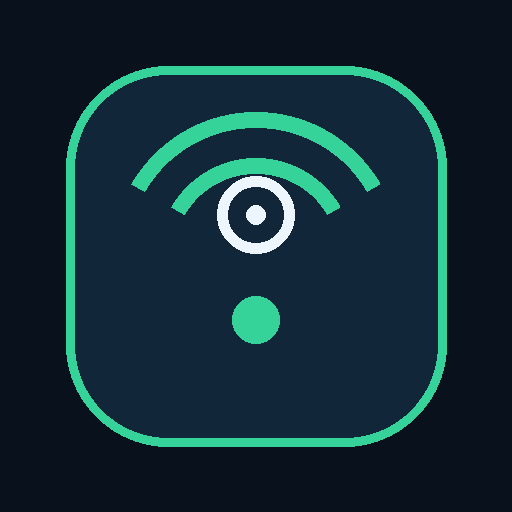
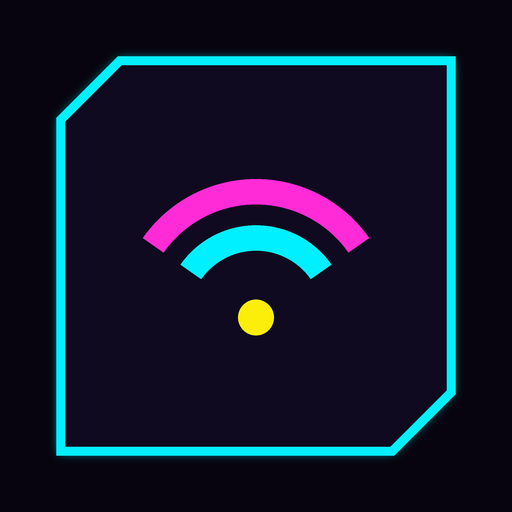
Add files via upload

diff --git a/style.css b/style.css
@@ -1,12 +1,64 @@
-*{box-sizing:border-box} :root{color-scheme:dark;--bg:#09111d;--panel:#111e2e;--line:#26384c;--text:#edf5ff;--muted:#91a5bb;--green:#35d39a;--blue:#5da9ff;--amber:#ffc56a}
-body{margin:0;background:linear-gradient(180deg,#0c1929,#08111c 45%);color:var(--text);font-family:system-ui,-apple-system,"Segoe UI",sans-serif;padding-bottom:env(safe-area-inset-bottom)}
+*{box-sizing:border-box}
+:root{color-scheme:dark;--bg:#07040f;--panel:#0f0a1f;--panel2:#0a0716;--line:#2f2160;--text:#e8f7ff;--muted:#8a82b5;--cyan:#00f0ff;--pink:#ff2bd6;--yellow:#fcee09;--green:#39ff88;--red:#ff3355;--cut:12px}
+body{margin:0;color:var(--text);font-family:ui-monospace,"SF Mono","Cascadia Mono",Menlo,Consolas,"Courier New",monospace,system-ui,sans-serif;padding-bottom:env(safe-area-inset-bottom);min-height:100vh;
+background:
+ radial-gradient(600px 300px at 90% -5%,rgba(255,43,214,.22),transparent 70%),
+ radial-gradient(600px 320px at -10% 8%,rgba(0,240,255,.18),transparent 70%),
+ repeating-linear-gradient(0deg,rgba(0,240,255,.035) 0 1px,transparent 1px 40px),
+ repeating-linear-gradient(90deg,rgba(255,43,214,.03) 0 1px,transparent 1px 40px),
+ var(--bg);background-attachment:fixed}
+body::after{content:"";position:fixed;inset:0;pointer-events:none;z-index:999;background:repeating-linear-gradient(0deg,rgba(0,0,0,.18) 0 1px,transparent 1px 3px);mix-blend-mode:multiply}
 .topbar{padding:calc(18px + env(safe-area-inset-top)) 18px 18px;display:flex;justify-content:space-between;align-items:center;max-width:760px;margin:auto}
-h1{font-size:25px;margin:2px 0 0;letter-spacing:-.5px}.eyebrow{font-size:10px;letter-spacing:2px;color:var(--green);font-weight:800}.topbar .pill{font-size:11px}
-main{max-width:760px;margin:auto;padding:0 14px 24px;display:grid;gap:13px}.panel{background:rgba(17,30,46,.96);border:1px solid var(--line);border-radius:18px;padding:16px;box-shadow:0 8px 24px #0002}
-.hero{background:linear-gradient(135deg,#142c40,#102033)}.hero-head,.section-title,.section-title>div{display:flex;align-items:center;justify-content:space-between;gap:10px}.section-title{margin-bottom:15px}.section-title>div{justify-content:flex-start}h2{font-size:16px;margin:0}.emoji{font-size:20px}.big{font-size:27px;font-weight:800;margin-top:4px}.signal-icon{font-size:38px;color:var(--green)}
-.muted{color:var(--muted)}.small{font-size:11px}.metrics,.gps-grid{display:grid;grid-template-columns:repeat(3,1fr);gap:9px;margin-top:17px}.metrics>div,.gps-grid>div{background:#0b1928;border:1px solid #26384c;border-radius:12px;padding:11px;min-width:0}.metrics span,.gps-grid span{display:block;font-size:11px}.metrics strong,.gps-grid strong{display:block;font-size:19px;margin-top:5px;white-space:nowrap}
-.hint{font-size:11px;line-height:1.55;color:var(--muted);margin:12px 0 0}.speed-grid{display:grid;grid-template-columns:1fr 1fr;gap:10px}.speed{background:#0b1928;border:1px solid var(--line);border-radius:14px;padding:14px}.speed span,.speed small{display:block;color:var(--muted);font-size:11px}.speed strong{font-size:29px;display:inline-block;margin:5px 5px 0 0}.button-row{display:flex;gap:9px;margin-top:13px}button{font:inherit;border:0;border-radius:12px;padding:13px 15px;font-weight:750;cursor:pointer;min-height:45px}.button-row button{flex:1}.primary{background:var(--green);color:#062016}.secondary{background:#26384c;color:var(--text);border:1px solid #3a5068}.tiny{min-height:30px;padding:6px 10px;font-size:11px}.full{width:100%;margin-top:12px}.pill{padding:6px 9px;border-radius:99px;font-weight:750}.pill.ok{background:#123e32;color:#61e9b5}.pill.warn{background:#44351d;color:#ffd28b}.pill.bad{background:#4a252b;color:#ff9aa5}
-.coords{display:flex;justify-content:space-between;align-items:center;gap:8px;margin:13px 0;font-size:12px;word-break:break-all}#map{height:245px;border-radius:13px;overflow:hidden;background:#0a1725;border:1px solid var(--line)}.leaflet-container{font:12px system-ui}.leaflet-control-attribution{font-size:9px!important}
-.info-list>div{display:flex;justify-content:space-between;gap:12px;padding:10px 0;border-bottom:1px solid #26384c;font-size:12px}.info-list>div:last-child{border:0}.info-list span{color:var(--muted)}.info-list b{text-align:right;max-width:58%;overflow-wrap:anywhere}
-.history-item{padding:10px 0;border-bottom:1px solid #26384c;font-size:12px}.history-item:last-child{border:0}.history-item b{color:var(--green)}footer{text-align:center;color:#71869d;font-size:10px;padding:12px 5px 22px}.toast{position:fixed;bottom:20px;left:50%;transform:translate(-50%,20px);background:#e8f4ff;color:#102033;padding:10px 16px;border-radius:12px;font-size:12px;font-weight:700;opacity:0;pointer-events:none;transition:.2s;z-index:1000;max-width:90%}.toast.show{opacity:1;transform:translate(-50%,0)}button:disabled{opacity:.45;cursor:not-allowed}
+h1{font-size:26px;margin:2px 0 0;letter-spacing:3px;text-transform:uppercase;color:var(--cyan);text-shadow:0 0 8px rgba(0,240,255,.8),2px 0 var(--pink),-2px 0 rgba(0,240,255,.35)}
+.eyebrow{font-size:10px;letter-spacing:4px;color:var(--pink);font-weight:800;text-shadow:0 0 6px rgba(255,43,214,.8)}
+.topbar .pill{font-size:11px}
+main{max-width:760px;margin:auto;padding:0 14px 24px;display:grid;gap:14px}
+.panel{position:relative;background:linear-gradient(160deg,rgba(20,12,44,.96),rgba(10,7,22,.96));border:1px solid var(--line);border-left:3px solid var(--cyan);padding:16px;clip-path:polygon(0 0,calc(100% - var(--cut)) 0,100% var(--cut),100% 100%,var(--cut) 100%,0 calc(100% - var(--cut)));box-shadow:inset 0 0 30px rgba(0,240,255,.05)}
+.panel::before{content:"";position:absolute;top:0;right:0;width:var(--cut);height:var(--cut);background:linear-gradient(45deg,transparent 50%,var(--pink) 50%)}
+.hero{background:linear-gradient(135deg,rgba(40,10,60,.95),rgba(8,20,40,.95));border-left-color:var(--pink)}
+.hero-head,.section-title,.section-title>div{display:flex;align-items:center;justify-content:space-between;gap:10px}
+.section-title{margin-bottom:15px}.section-title>div{justify-content:flex-start}
+h2{font-size:14px;margin:0;letter-spacing:2px;text-transform:uppercase;color:var(--yellow);text-shadow:0 0 6px rgba(252,238,9,.5)}
+.emoji{font-size:19px;filter:drop-shadow(0 0 5px rgba(0,240,255,.8))}
+.big{font-size:26px;font-weight:800;margin-top:4px;color:var(--text);text-shadow:0 0 10px rgba(0,240,255,.6)}
+.signal-icon{font-size:38px;color:var(--pink);text-shadow:0 0 12px var(--pink);animation:pulse 2s ease-in-out infinite}
+@keyframes pulse{50%{opacity:.45}}
+.muted{color:var(--muted)}.small{font-size:11px}
+.metrics,.gps-grid{display:grid;grid-template-columns:repeat(3,1fr);gap:9px;margin-top:17px}
+.metrics>div,.gps-grid>div,.speed{background:var(--panel2);border:1px solid var(--line);border-bottom:2px solid var(--cyan);padding:11px;min-width:0}
+.metrics span,.gps-grid span{display:block;font-size:10px;letter-spacing:1px;text-transform:uppercase}
+.metrics strong,.gps-grid strong{display:block;font-size:18px;margin-top:5px;white-space:nowrap;color:var(--cyan);text-shadow:0 0 8px rgba(0,240,255,.6)}
+.hint{font-size:11px;line-height:1.6;color:var(--muted);margin:12px 0 0}
+.speed-grid{display:grid;grid-template-columns:1fr 1fr;gap:10px}
+.speed:nth-child(2){border-bottom-color:var(--pink)}
+.speed span,.speed small{display:block;color:var(--muted);font-size:10px;letter-spacing:1px;text-transform:uppercase}
+.speed strong{font-size:30px;display:inline-block;margin:5px 5px 0 0;color:var(--green);text-shadow:0 0 10px rgba(57,255,136,.7)}
+.speed:nth-child(2) strong{color:var(--pink);text-shadow:0 0 10px rgba(255,43,214,.7)}
+.button-row{display:flex;gap:9px;margin-top:13px}
+button{font:inherit;border:0;padding:13px 15px;font-weight:800;cursor:pointer;min-height:45px;letter-spacing:1px;text-transform:uppercase;font-size:13px;clip-path:polygon(0 0,calc(100% - 9px) 0,100% 9px,100% 100%,9px 100%,0 calc(100% - 9px));transition:filter .15s,transform .1s}
+button:active:not(:disabled){transform:translateY(1px);filter:brightness(1.25)}
+.button-row button{flex:1}
+.primary{background:var(--cyan);color:#001418;box-shadow:0 0 14px rgba(0,240,255,.5)}
+.secondary{background:#1c1240;color:var(--pink);outline:1px solid var(--pink);outline-offset:-1px}
+.tiny{min-height:30px;padding:6px 10px;font-size:11px}.full{width:100%;margin-top:12px}
+.pill{padding:5px 10px;font-weight:800;letter-spacing:1px;border:1px solid;font-size:11px;clip-path:polygon(0 0,calc(100% - 6px) 0,100% 6px,100% 100%,6px 100%,0 calc(100% - 6px))}
+.pill.ok{background:rgba(57,255,136,.1);color:var(--green);border-color:var(--green);text-shadow:0 0 6px rgba(57,255,136,.8)}
+.pill.warn{background:rgba(252,238,9,.1);color:var(--yellow);border-color:var(--yellow);text-shadow:0 0 6px rgba(252,238,9,.6)}
+.pill.bad{background:rgba(255,51,85,.12);color:var(--red);border-color:var(--red);text-shadow:0 0 6px rgba(255,51,85,.8)}
+.coords{display:flex;justify-content:space-between;align-items:center;gap:8px;margin:13px 0;font-size:12px;word-break:break-all;color:var(--cyan)}
+#map{height:245px;overflow:hidden;background:#0a0716;border:1px solid var(--cyan);box-shadow:0 0 14px rgba(0,240,255,.25)}
+#map .leaflet-tile-pane{filter:invert(1) hue-rotate(180deg) saturate(.55) brightness(.9) contrast(1.05)}
+#map .leaflet-marker-pane img{filter:hue-rotate(125deg) saturate(2.5) drop-shadow(0 0 6px #ff2bd6)}
+.leaflet-container{font:12px ui-monospace,Menlo,Consolas,monospace;background:#0a0716}
+.leaflet-control-attribution{font-size:9px!important;background:rgba(7,4,15,.8)!important;color:var(--muted)!important}.leaflet-control-attribution a{color:var(--cyan)!important}
+.leaflet-bar a{background:#0f0a1f;color:var(--cyan);border-color:var(--line)}
+.info-list>div{display:flex;justify-content:space-between;gap:12px;padding:10px 0;border-bottom:1px dashed var(--line);font-size:12px}.info-list>div:last-child{border:0}
+.info-list span{color:var(--muted)}.info-list b{text-align:right;max-width:58%;overflow-wrap:anywhere;color:var(--text)}
+.history-item{padding:10px 0;border-bottom:1px dashed var(--line);font-size:12px}.history-item:last-child{border:0}
+.history-item b{color:var(--pink);text-shadow:0 0 6px rgba(255,43,214,.6)}
+footer{text-align:center;color:var(--muted);font-size:10px;padding:12px 5px 22px;letter-spacing:1px}
+.toast{position:fixed;bottom:20px;left:50%;transform:translate(-50%,20px);background:#0f0a1f;color:var(--cyan);border:1px solid var(--cyan);box-shadow:0 0 16px rgba(0,240,255,.5);padding:10px 16px;font-size:12px;font-weight:700;opacity:0;pointer-events:none;transition:.2s;z-index:1000;max-width:90%}
+.toast.show{opacity:1;transform:translate(-50%,0)}
+button:disabled{opacity:.35;cursor:not-allowed;filter:grayscale(.6)}
 @media(min-width:600px){main{padding-left:20px;padding-right:20px}.panel{padding:20px}#map{height:330px}}
+@media(prefers-reduced-motion:reduce){.signal-icon{animation:none}}

diff --git a/app.js b/app.js
@@ -4,7 +4,7 @@ const GPS_LOG_INTERVAL_MS=30000;
 const toast = msg => { $('toast').textContent=msg; $('toast').classList.add('show'); setTimeout(()=>$('toast').classList.remove('show'),2600); };
 const fmt = (n,d=1) => Number.isFinite(n) ? n.toFixed(d) : '--';
 function initMap(){
-  if(!window.L){ $('map').innerHTML='<div style="padding:18px;color:#91a5bb">โหลดแผนที่ไม่สำเร็จ ตรวจสอบอินเทอร์เน็ต</div>'; return; }
+  if(!window.L){ $('map').innerHTML='<div style="padding:18px;color:#8a82b5">โหลดแผนที่ไม่สำเร็จ ตรวจสอบอินเทอร์เน็ต</div>'; return; }
   map=L.map('map').setView([13.7563,100.5018],5);
   L.tileLayer('https://{s}.tile.openstreetmap.org/{z}/{x}/{y}.png',{maxZoom:19,attribution:'&copy; OpenStreetMap contributors'}).addTo(map);
 }
@@ -84,7 +84,7 @@ function startGPS(){
     $('gpsSpeed').textContent=c.speed===null?'-- km/h':fmt(c.speed*3.6,1)+' km/h';
     $('heading').textContent=c.heading===null?'--':fmt(c.heading,0)+'°';
     $('coords').textContent=lat.toFixed(6)+', '+lon.toFixed(6);$('copyCoords').disabled=false;
-    if(map){const ll=[lat,lon];if(!marker){marker=L.marker(ll).addTo(map);accuracyCircle=L.circle(ll,{radius:c.accuracy,color:'#35d39a',fillOpacity:.12}).addTo(map);}else{marker.setLatLng(ll);accuracyCircle.setLatLng(ll).setRadius(c.accuracy);}map.setView(ll,Math.max(map.getZoom(),16));}
+    if(map){const ll=[lat,lon];if(!marker){marker=L.marker(ll).addTo(map);accuracyCircle=L.circle(ll,{radius:c.accuracy,color:'#ff2bd6',fillColor:'#ff2bd6',fillOpacity:.15}).addTo(map);}else{marker.setLatLng(ll);accuracyCircle.setLatLng(ll).setRadius(c.accuracy);}map.setView(ll,Math.max(map.getZoom(),16));}
     const now=Date.now();
     if(now-lastGpsLog>=GPS_LOG_INTERVAL_MS){lastGpsLog=now;addHistory('GPS',`±${Math.round(c.accuracy)} m`,`${lat.toFixed(5)}, ${lon.toFixed(5)}`);} // บันทึกทุก 30 วินาที ไม่ให้ประวัติท่วม
   },err=>{

diff --git a/sw.js b/sw.js
@@ -1,4 +1,4 @@
-const CACHE='rider-signal-v2';
+const CACHE='rider-signal-v3';
 const CORE=['./','./index.html','./style.css','./app.js','./manifest.webmanifest','./icon-192.png','./icon-512.png','./icon-maskable-512.png','./leaflet.js','./leaflet.css','./marker-icon.png','./marker-icon-2x.png','./marker-shadow.png','./layers.png','./layers-2x.png'];
 self.addEventListener('install',e=>e.waitUntil(caches.open(CACHE).then(c=>c.addAll(CORE)).then(()=>self.skipWaiting())));
 self.addEventListener('activate',e=>e.waitUntil(caches.keys().then(keys=>Promise.all(keys.filter(k=>k!==CACHE).map(k=>caches.delete(k)))).then(()=>self.clients.claim())));

diff --git a/index.html b/index.html
@@ -3,7 +3,7 @@
 <head>
   <meta charset="utf-8">
   <meta name="viewport" content="width=device-width,initial-scale=1,viewport-fit=cover">
-  <meta name="theme-color" content="#0b1422">
+  <meta name="theme-color" content="#07040f">
   <meta name="description" content="เครื่องมือตรวจสอบอินเทอร์เน็ตและ GPS สำหรับไรเดอร์">
   <title>Rider Signal Check</title>
   <link rel="manifest" href="manifest.webmanifest">
